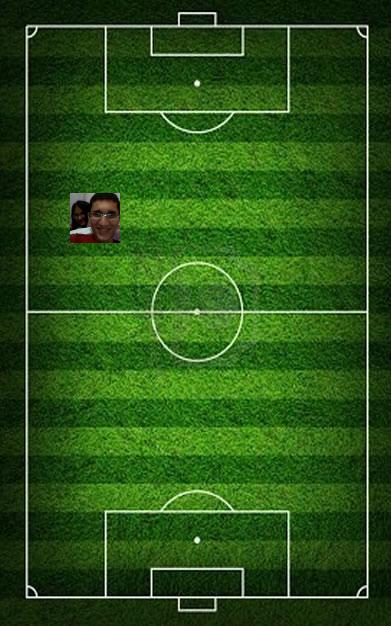
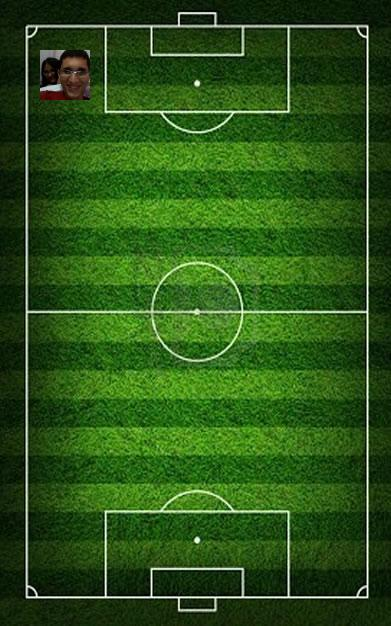
aeaw

Changed region(s): [[0.0921, 0.0607, 0.2455, 0.1821], [0.1535, 0.3035, 0.3069, 0.3946]]

diff --git a/maketeam/templates/time.html b/maketeam/templates/time.html
@@ -164,12 +164,12 @@
 					var y = $("#foto"+i).css("top");
 					dados.push({"id":id , "x":x , "y":y})
 				}
-				// console.log(data);
+				console.log(dados)
 				$.ajax({
 		     		type: "POST",
 		     		url: "/compartilhar/",
-		     		data: dados,
-		     		dataType:"text",
+		     		data: {"dados" : dados}, 
+		     		dataType:"json",
 		     		success: function(conteudo){    			
 		     			
 		     			console.log("ok");

diff --git a/app/util/funcoes.py b/app/util/funcoes.py
@@ -1,32 +1,31 @@
 import Image
 import urllib2
 import cStringIO
-import os
-
-def montar_imagem():
-
-	foto = cStringIO.StringIO(urllib2.urlopen("http://profile.ak.fbcdn.net/hprofile-ak-snc4/50084_100003016125914_1874164856_q.jpg").read())
-	
+from django.conf import settings
 
 
-	foto = Image.open(foto)
+def montar_imagem(dic):
 
-	fundo = Image.open("campo.jpg") 
-
-	fundo.paste(foto, (70,193))
-
-	fundo.save("teste.jpg","jpeg")
-	
-	# asdasd = {"data" : [
-	# {"id" : "121231"	,"x": "4","y": "5"},
-	# {"id" : "121231"	,"x": "4","y": "5"},
-	# {"id" : "121231"	,"x": "4","y": "5"},
-	# {"id" : "121231"	,"x": "4","y": "5"},
-	# {"id" : "121231"	,"x": "4","y": "5"},
-	# {"id" : "121231"	,"x": "4","y": "5"},
-	# {"id" : "121231"	,"x": "4","y": "5"},
-	# {"id" : "121231"	,"x": "4","y": "5"},
-	# {"id" : "121231"	,"x": "4","y": "5"}]
+	fundo = Image.open('/home/bruno/projetos django/maketeam2/maketeam/static/img/campo.jpg') 
+	# dic = {"data" : [
+	# {"id" : "100003016125914"	,"x": "40","y": "50"}]
 	# }
 
-montar_imagem()
+	for i in range(0,11):
+		x = "dados[%d][x]" % (i)
+		y = "dados[%d][y]" % (i) 
+
+		x = int(dic[x][0:2])-160 
+		y = int(dic[y][0:2])-150 
+
+		user_id = "dados[%s][id]" % (str(i))
+		url = "https://graph.facebook.com/%s/picture" % str(dic[user_id])
+
+		foto = cStringIO.StringIO(urllib2.urlopen(url).read()) 
+		foto = Image.open(foto)
+		fundo.paste(foto, (x, y))
+
+	fundo.save("/home/bruno/projetos django/maketeam2/maketeam/static/img/teste.jpg","jpeg")
+	imagem = "/home/bruno/projetos django/maketeam2/maketeam/static/img/teste.jpg"
+	return imagem
+	

diff --git a/app/views.py b/app/views.py
@@ -1,7 +1,11 @@
 # Create your views here.
 from django.shortcuts import render
+from django.http import HttpResponse
 from fandjango.decorators import facebook_authorization_required
 import json
+from django.conf import settings
+from django.views.decorators.csrf import csrf_exempt
+from util.funcoes import montar_imagem
 
 # @facebook_authorization_required
 def time(request):
@@ -10,3 +14,16 @@ def time(request):
 	context['friends'] = json.dumps(friends['data'])
 
 	return render(request, 'time.html', context)
+
+@csrf_exempt
+def compartilhar(request):
+
+	dados = request.POST
+
+	# user = dados["dados[8][id]"]
+	imagem = montar_imagem(dados)
+	return HttpResponse(imagem)
+	signed_request = SignedRequest.parse(token, settings.FACEBOOK_APPLICATION_SECRET_KEY)
+	graph = GraphAPI(signed_request.oauth_token.token)
+	post = graph.post(path="me/photos", tags="[{'tag_uid':'100003016125914'},{'tag_uid':'100003798651396'}]", message="Vote na sua banda favorita e acompanhem em tempo real essa disputa!!! acesse: http://apps.facebook.com/maketeam2", source=open(settings.STATIC_ROOT+"/media/"+imagem))
+	return HttpResponse(simplejson.dumps(post))

diff --git a/maketeam/urls.py b/maketeam/urls.py
@@ -10,6 +10,7 @@ urlpatterns = patterns('',
         'template': 'home.html'
     }, name='home'),
     url(r'^time/$', 'app.views.time', name='time'),
+    url(r'^compartilhar', 'app.views.compartilhar', name='compartilhar'),
     # url(r'^maketeam/', include('maketeam.foo.urls')),
 
     # Uncomment the admin/doc line below to enable admin documentation:
